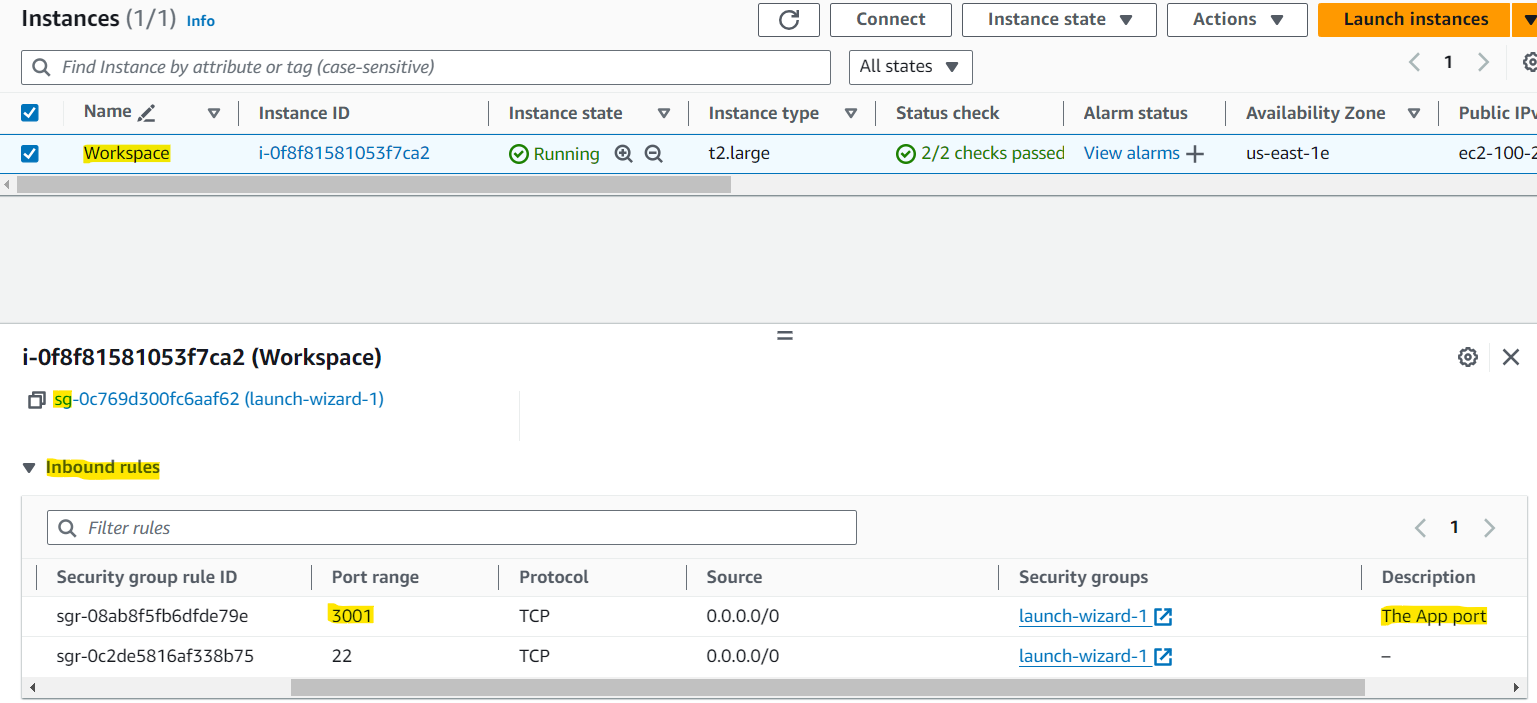
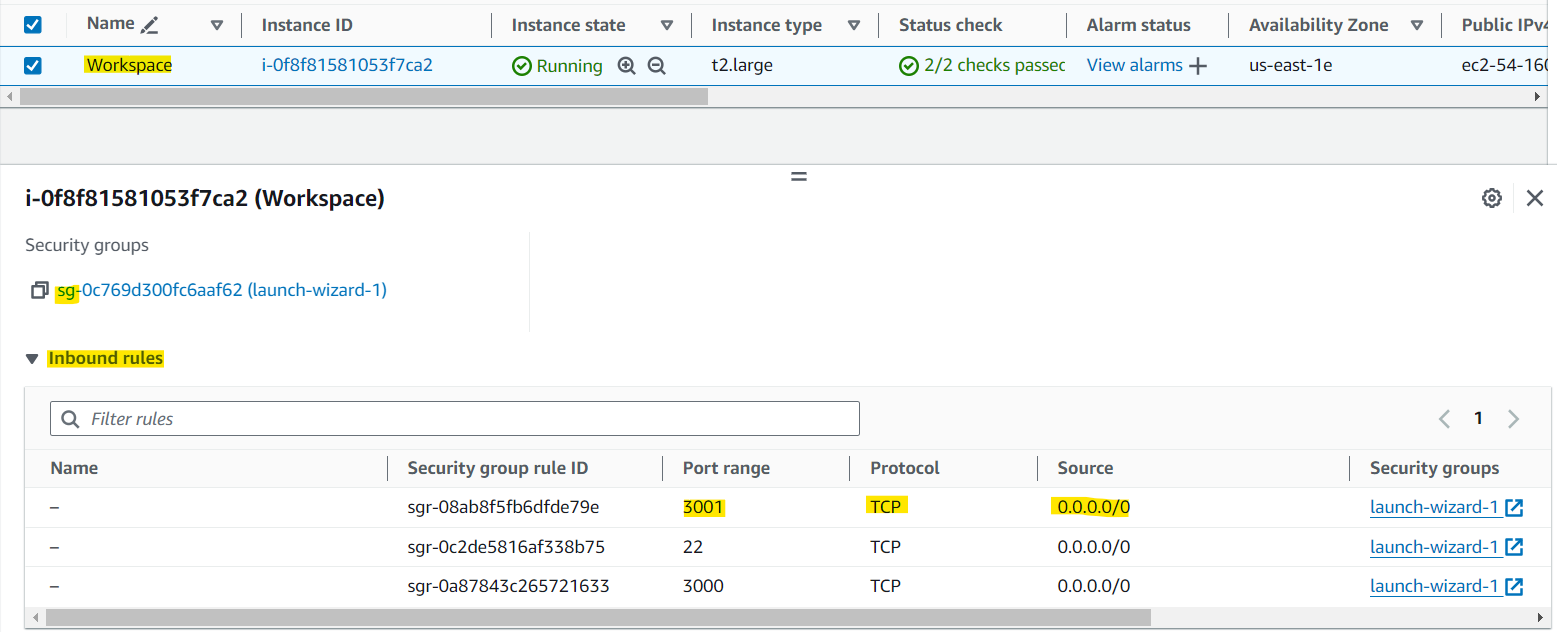
fix task 2

diff --git a/Assignment1/Task2/README.md b/Assignment1/Task2/README.md
@@ -14,13 +14,17 @@ present a list of videos based on the files inside the bucket.
 ![](img/00%20-%20instruction's%20illustration.png)
 
 ## Implementation
-First of all, I edited the Security Group and replaced port 3000 with port 3001. The reason for hiding 3000 is because it will be an internal self-using API, while the application itself will (now) run on port 3001.
+First of all, I edited the Security Group.
 
 ![](img/01%20-%20the%20edited%20security%20group.png)
 
-Next, I set up the API for the HTTP server on port 3001. Its job now is to list what the internal API is in a nice way for the user. The code can be found in the [myWebServer](./myWebServer/) folder
+Next, I set up the API for the HTTP server on port 3001. You can find it in [myWebServer](./myWebServer/) folder
 
-To run the web server, first you need to make sure that [./myAPI/index.js](./myAPI/index.js) is also running (this is exactly the same version of code from [Task 1](../Task1/)). After that, enter the folder where the web server is located, take care of the dependencies and run it with the following commands:
+Then, I create the [index.html](./myWebServer/index.html) file. Also in [myWebServer](./myWebServer/) folder.
+
+When I tried to browse the site, I ran into a CORS problem. And so I also fix it in [./myAPI/index.js](./myAPI/index.js).
+
+To run the web server, first you need to make sure that [./myAPI/index.js](./myAPI/index.js) is also running. After that, enter the [myWebServer](./myWebServer/) folder where the web server is located, take care of the dependencies and run it with the following commands:
 
 ```
 npm i express
